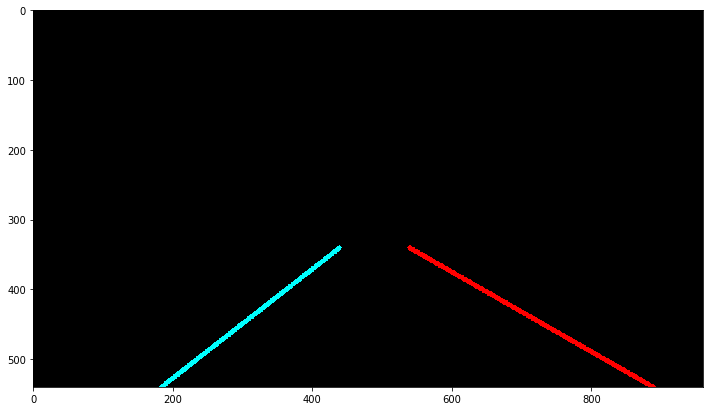
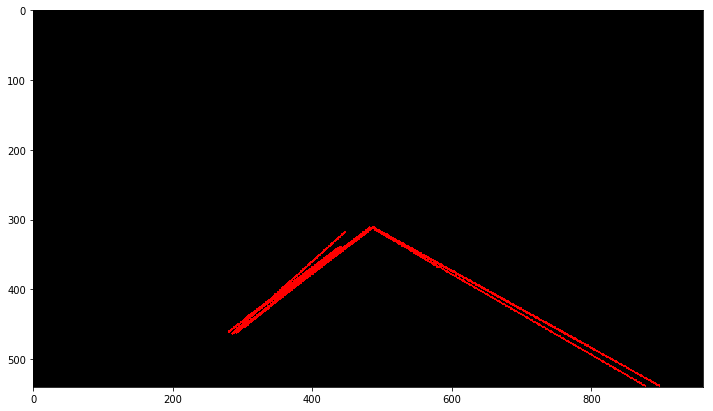
Add Writeup

diff --git a/writeup_template.md b/writeup_template.md
@@ -1,47 +1,134 @@
-#**Finding Lane Lines on the Road** 
-
-##Writeup Template
-
-###You can use this file as a template for your writeup if you want to submit it as a markdown file. But feel free to use some other method and submit a pdf if you prefer.
-
----
-
 **Finding Lane Lines on the Road**
 
 The goals / steps of this project are the following:
+
 * Make a pipeline that finds lane lines on the road
 * Reflect on your work in a written report
 
+### Pipeline
+#### 0. Take an Image (or Video Frame)
+![Original Image](writeup_images/Original.png)
 
-[//]: # (Image References)
+From this image we create two copies.  One using hsv color space (for the `cv2.inRange` functions, and a grayscale image (that I divide by two to create a subdued image) for the rest of the images.  (Subduing the image, along with the `gaussian_blur()` that we use in the Canny Edge Detector, helps clean out artifacts that can appear in the image.)
 
-[image1]: ./examples/grayscale.jpg "Grayscale"
+*Note:  All colors and numbers were found using trial and error as well as working with fellow students in the slack channel.*
 
----
+#### 1. Mask out the colors
+The first step I took was to mask out the colors I wanted.  I used an [openCV Colorspace Tutorial](http://docs.opencv.org/3.0-beta/doc/py_tutorials/py_imgproc/py_colorspaces/py_colorspaces.html#how-to-find-hsv-values-to-track) to get HSV values for white, and mostly white.  I did the same thing for Full Yellow and faded yellow.  Running both values through  `cv2.inRange()` created mask images based on the original that only had color values in the ranges supplied.  Using `cv2.bitwise_and` to get a mask including both yellow and white together, and finally oring with the grayscale image gives an image that 'brightens' the colors we care about in the grayscale range.  (Makes them whiter.)  
+
+```python 
+white_mask = cv2.inRange(hsv_image, lower_yellow, upper_yellow)
+yellow_mask = cv2.inRange(hsv_image, lower_white, upper_white)
+yellow_white_mask = cv2.bitwise_and(white_mask, yellow_mask)
+masked_image = cv2.bitwise_or(subdued_gray, yellow_white_mask)
+```
+
+The resulting image looks like this:
+![Masked Image](writeup_images/Masked.png)
+
+#### 2. Canny Edge Detection
+Next step is to run it through the canny edge detector.  As mentioned above, we first blur the image slightly using `cv2.GaussianBlur()` to smooth out some artifacts.
+
+```python
+kernel_size = 5
+blurred_img = gaussian_blur(image,kernel_size)
+```
+
+Gives us a slightly blurred image:
+![Blurred Image](writeup_images/Blurred.png)
+  
+Finally we run it through the Canny Edge Detector which uses `cv2.Canny()`.
+
+```python    
+canny_low_threshold = 50
+canny_high_threshold = 150
+canny(blurred_img,canny_low_threshold,canny_high_threshold)   
+```
+
+Now we have an image that looks like this:
+![Canny Image](writeup_images/Canny_Edge.png)
+
+#### 3. Crop out the Area of Interest
+Now that we have an image that is very messy, we want to crop out whatever areas of the image the lines won't be in.  We know we want the bottom left (0, y), Near the middle of the screen (x*.475, y*.575), (x*.525, y*.575), and the bottom right of the screen (x, y).  We then use `cv2.fillPoly()` with our values to select out our region_of_interest.
+
+```python
+x = image.shape[1]
+y = image.shape[0]
+vertices = np.array([[(0,y),(x*.475, y*.575), (x*.525, y*.575), (x,y)]], dtype=np.int32)
+region_of_interest(image, vertices)
+```
+
+Gets us a nice image of just the roadway.
+![Cropped Image](writeup_images/Cropped.png)
+
+#### 4. Apply the Hough Line Detection
+Next we apply `cv2.HoughLinesP()` on the image to return an array of all lines detected.  Part of our `hough_lines()` function includes a `draw_lines()` function that takes the masked lines and creates a mask of the found lines.
+
+```python
+hough_rho = 3
+hough_theta = np.pi/150
+hough_threshold = 30
+hough_min_line_length = 70
+hough_max_line_gap = 155
+return hough_lines(image,hough_rho,hough_theta,hough_threshold,hough_min_line_length,hough_max_line_gap)
+```
+
+This gives us just the lines:
+![Hough Image](writeup_images/Hough.png)
+
+#### 5. Clean up the Lines
+The original Hough Lines array is filled with lots of messy lines which are all mostly correct but put together makes a messy image.  To clean this up, I first select lines that have a slope in specific ranges.  (Either sloping left or sloping right.)  
+
+```python 
+m = (y2-y1)/(x2-x1)
+intercept = y1 - x1 * m
+if (m > 0.15 and m < (0.15 * img.shape[1])):
+    right_intercepts.append(intercept)
+    right_slopes.append(m)
+elif (m < -0.5 and m > -(0.15 * img.shape[1])):
+    left_ints.append(intercept)
+    left_slopes.append(m)
+```
+
+Next, we grab the average of both the slopes on intercepts for each side.
+
+```python
+right_slope_average = np.average(right_slopes)
+right_intercepts_average = np.average(right_ints)
+```
+
+Finally, using the new slopes and intercepts, we draw a new line starting at the bottom of the screen and going up about 40% of the screen.  This seems to be good enough to draw the lanes and prevent the lines from crossing. 
+
+```python
+right_bottom_x = (img.shape[0] - right_int_average) / right_average
+right_top_x = (img.shape[0] * 0.63 - right_int_average) / right_average
+cv2.line(img, (int(right_bottom_x), img.shape[0]), (int(right_top_x), int(img.shape[0]*0.63)), color, thickness)
+```
+
+Now we have our cleaned up lines mask.
+![Clean Hough Image](writeup_images/Clean_Hough.png)
+
+
+#### 5.5. Smooth out jitters in the line for video
+As another effort to clean up the lines, I took the average of the average of the last 5 frames (5 seems to be a good compromise between smoothing out the jitters and preventing too much ghosting.)  This has really helped provide a smooth line that follows the actual lane lines pretty accurately.
+
+```python
+slide_length = 5
+right_slopes_slide[frame % slide_length] = right_average
+right_average = np.average(right_slopes_slide)
+```
+
+#### 6. Draw lines over original image.
+Next, we take the mask of lines and draw it over our original image.
+![Final Image](writeup_images/Final.png)
 
 ### Reflection
+#### 1. Determining Values and Possible Shortcomings
+The most difficult part of this project was 'intuiting' the values to be used in the functions.  Due to the quick turnaround of this project, I used values that were close to values provided in the classwork or given by fellow students.  Trial and error provided numbers that appear to work on all supplied images and videos.  While this works, I think there is a smarter way to figure these values out.  Values that can be determined at runtime to handle a wider range of brightness levels, road types, etc.  Also, I think being able to use the vehicle steering information would help determine how the image relates to our actions.  I also know that some students created tools to let them test values on the fly, which is also a great way to get numbers but doesn't allow on-the-road calibration.
 
-###1. Describe your pipeline. As part of the description, explain how you modified the draw_lines() function.
+#### 2. Possible Improvements
+I thought about ways that would make this smarter.  Ideas include identifying the lines and then using the colors of the lines (in a sliding average of the last couple frames) to help lock in on the lines.
 
-My pipeline consisted of 5 steps. First, I converted the images to grayscale, then I .... 
+I also thought about running the process on stripes of the screen (bottom 10%, next 10%, etc) to detect curves.  These curves can then me tracked and followed through to help maintain positive line identification.
 
-In order to draw a single line on the left and right lanes, I modified the draw_lines() function by ...
-
-If you'd like to include images to show how the pipeline works, here is how to include an image: 
-
-![alt text][image1]
-
-
-###2. Identify potential shortcomings with your current pipeline
-
-
-One potential shortcoming would be what would happen when ... 
-
-Another shortcoming could be ...
-
-
-###3. Suggest possible improvements to your pipeline
-
-A possible improvement would be to ...
-
-Another potential improvement could be to ...
+Finally, I thought it would be good to guess where a line should be based on other items.  For example, if the dashed line was missing, but the yellow line was identified, I can assume the dashed line should be x distance from the yellow line with a proper vanishing horizon point.
